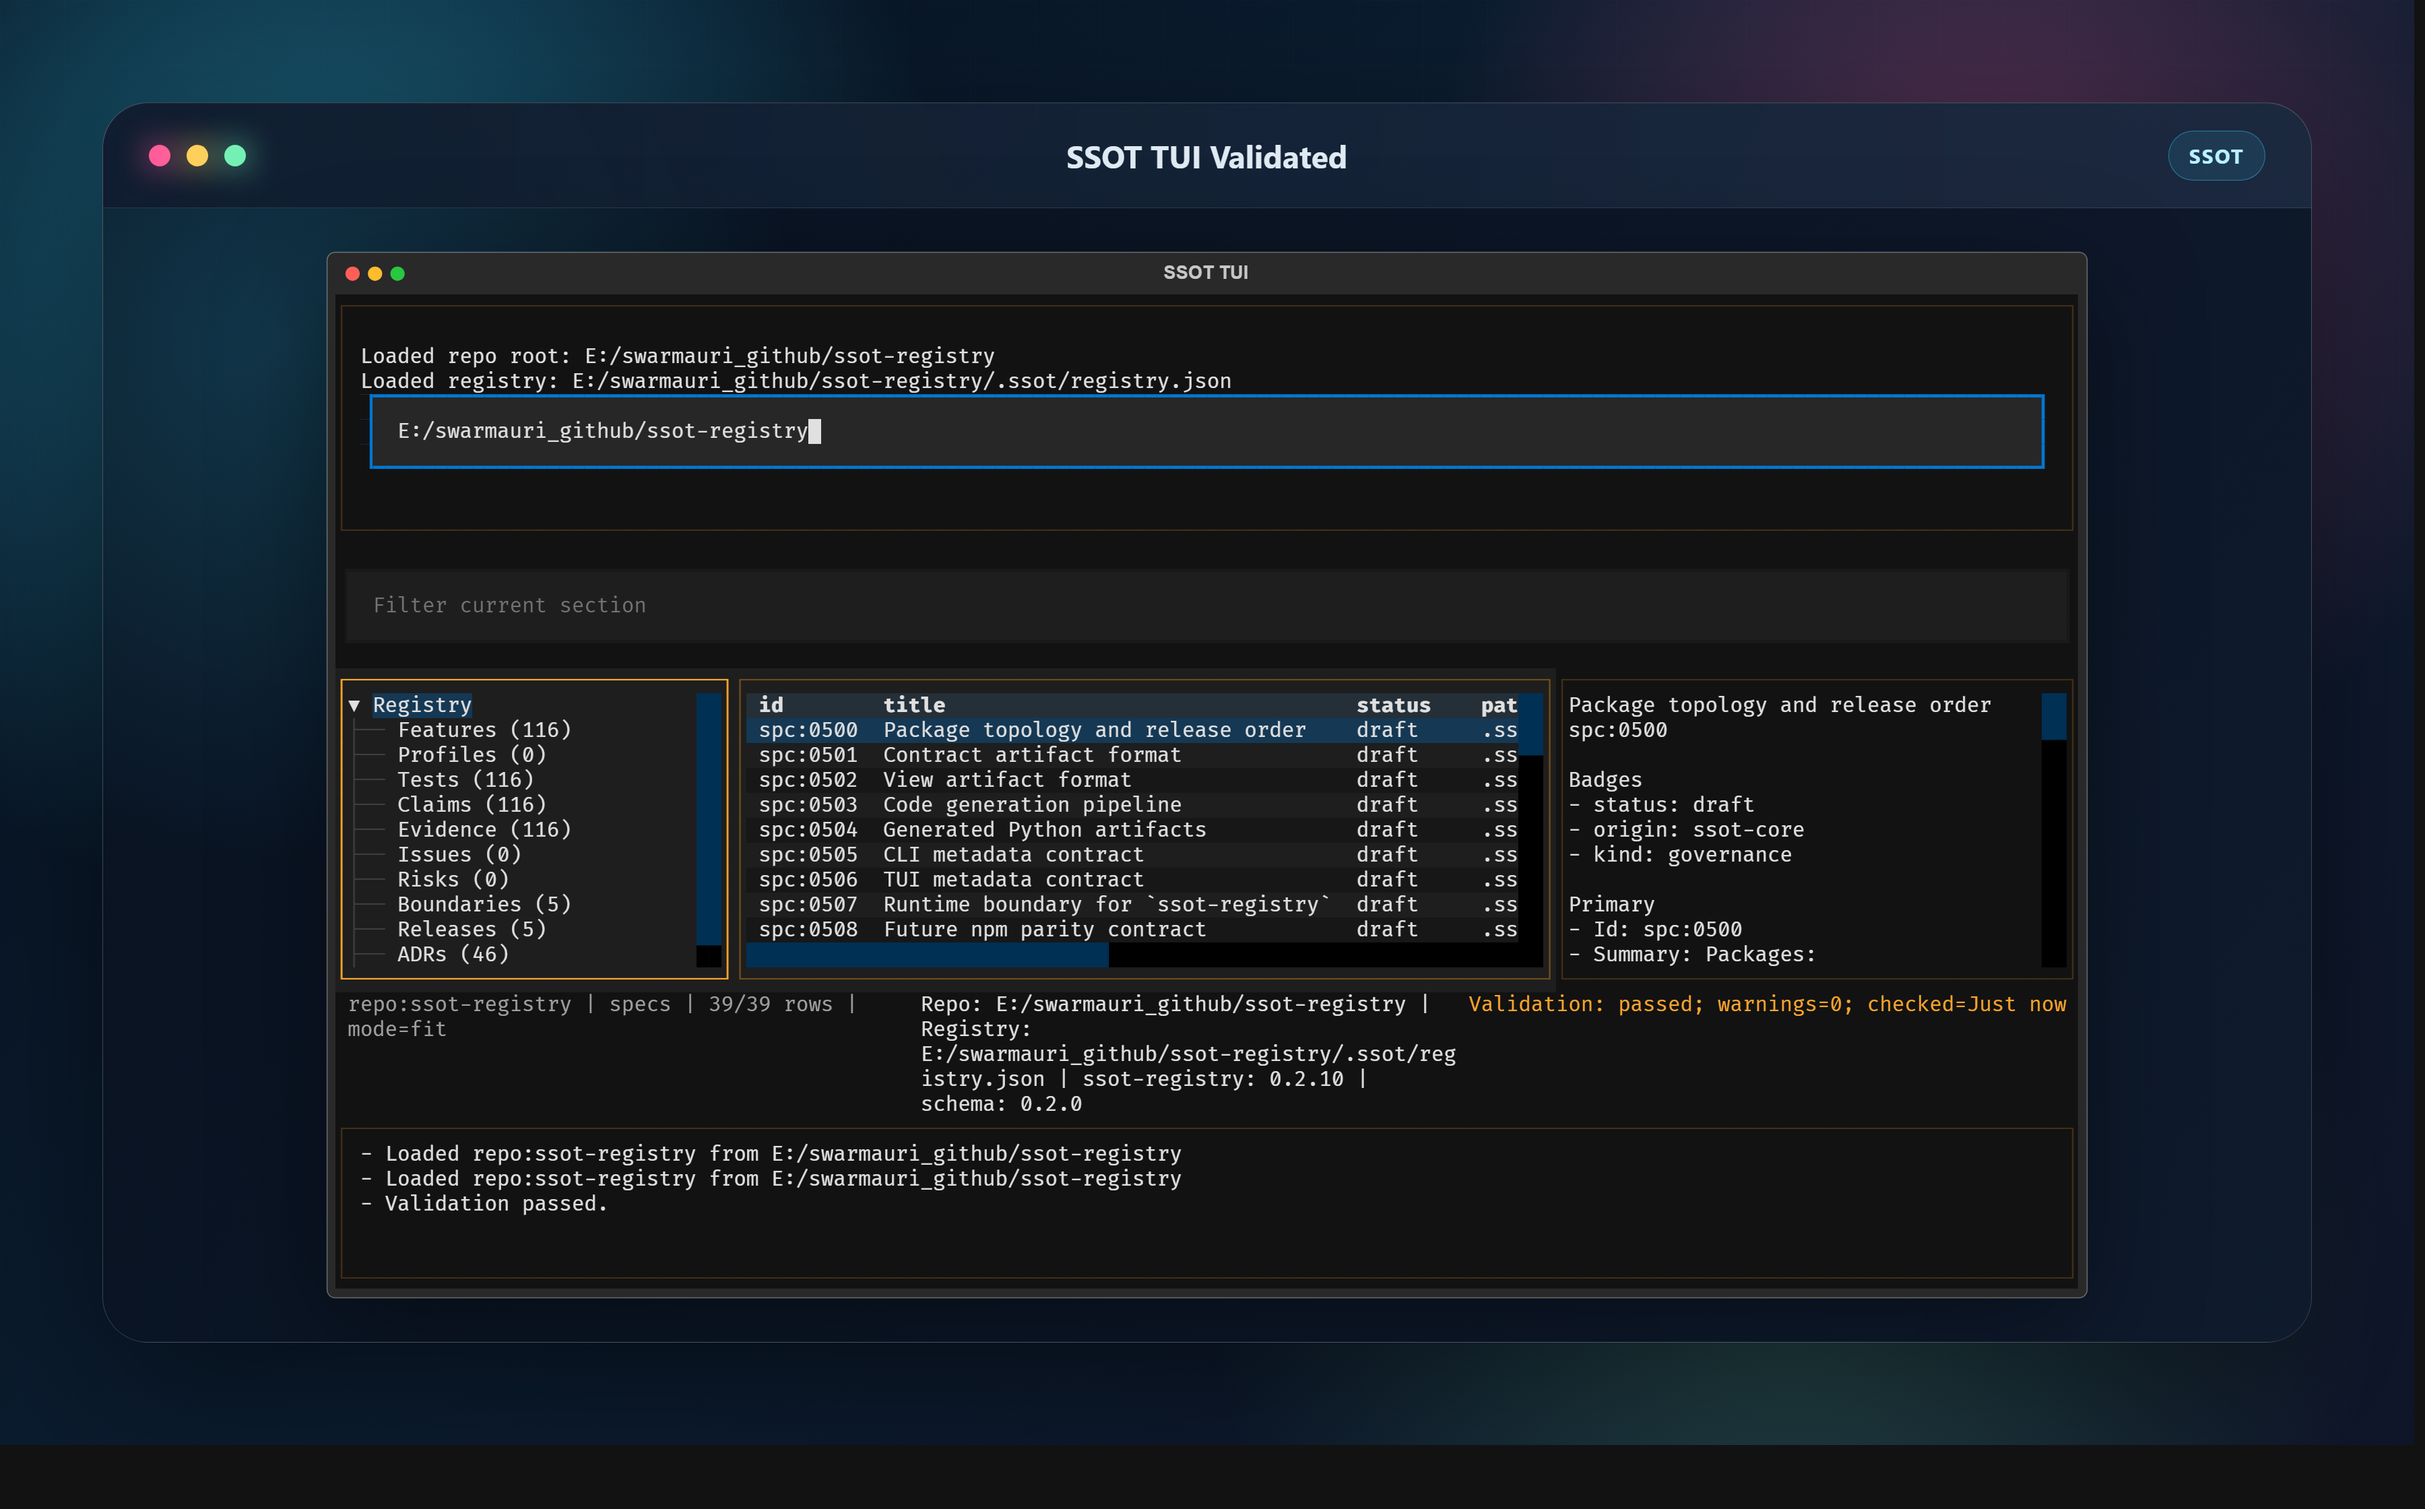
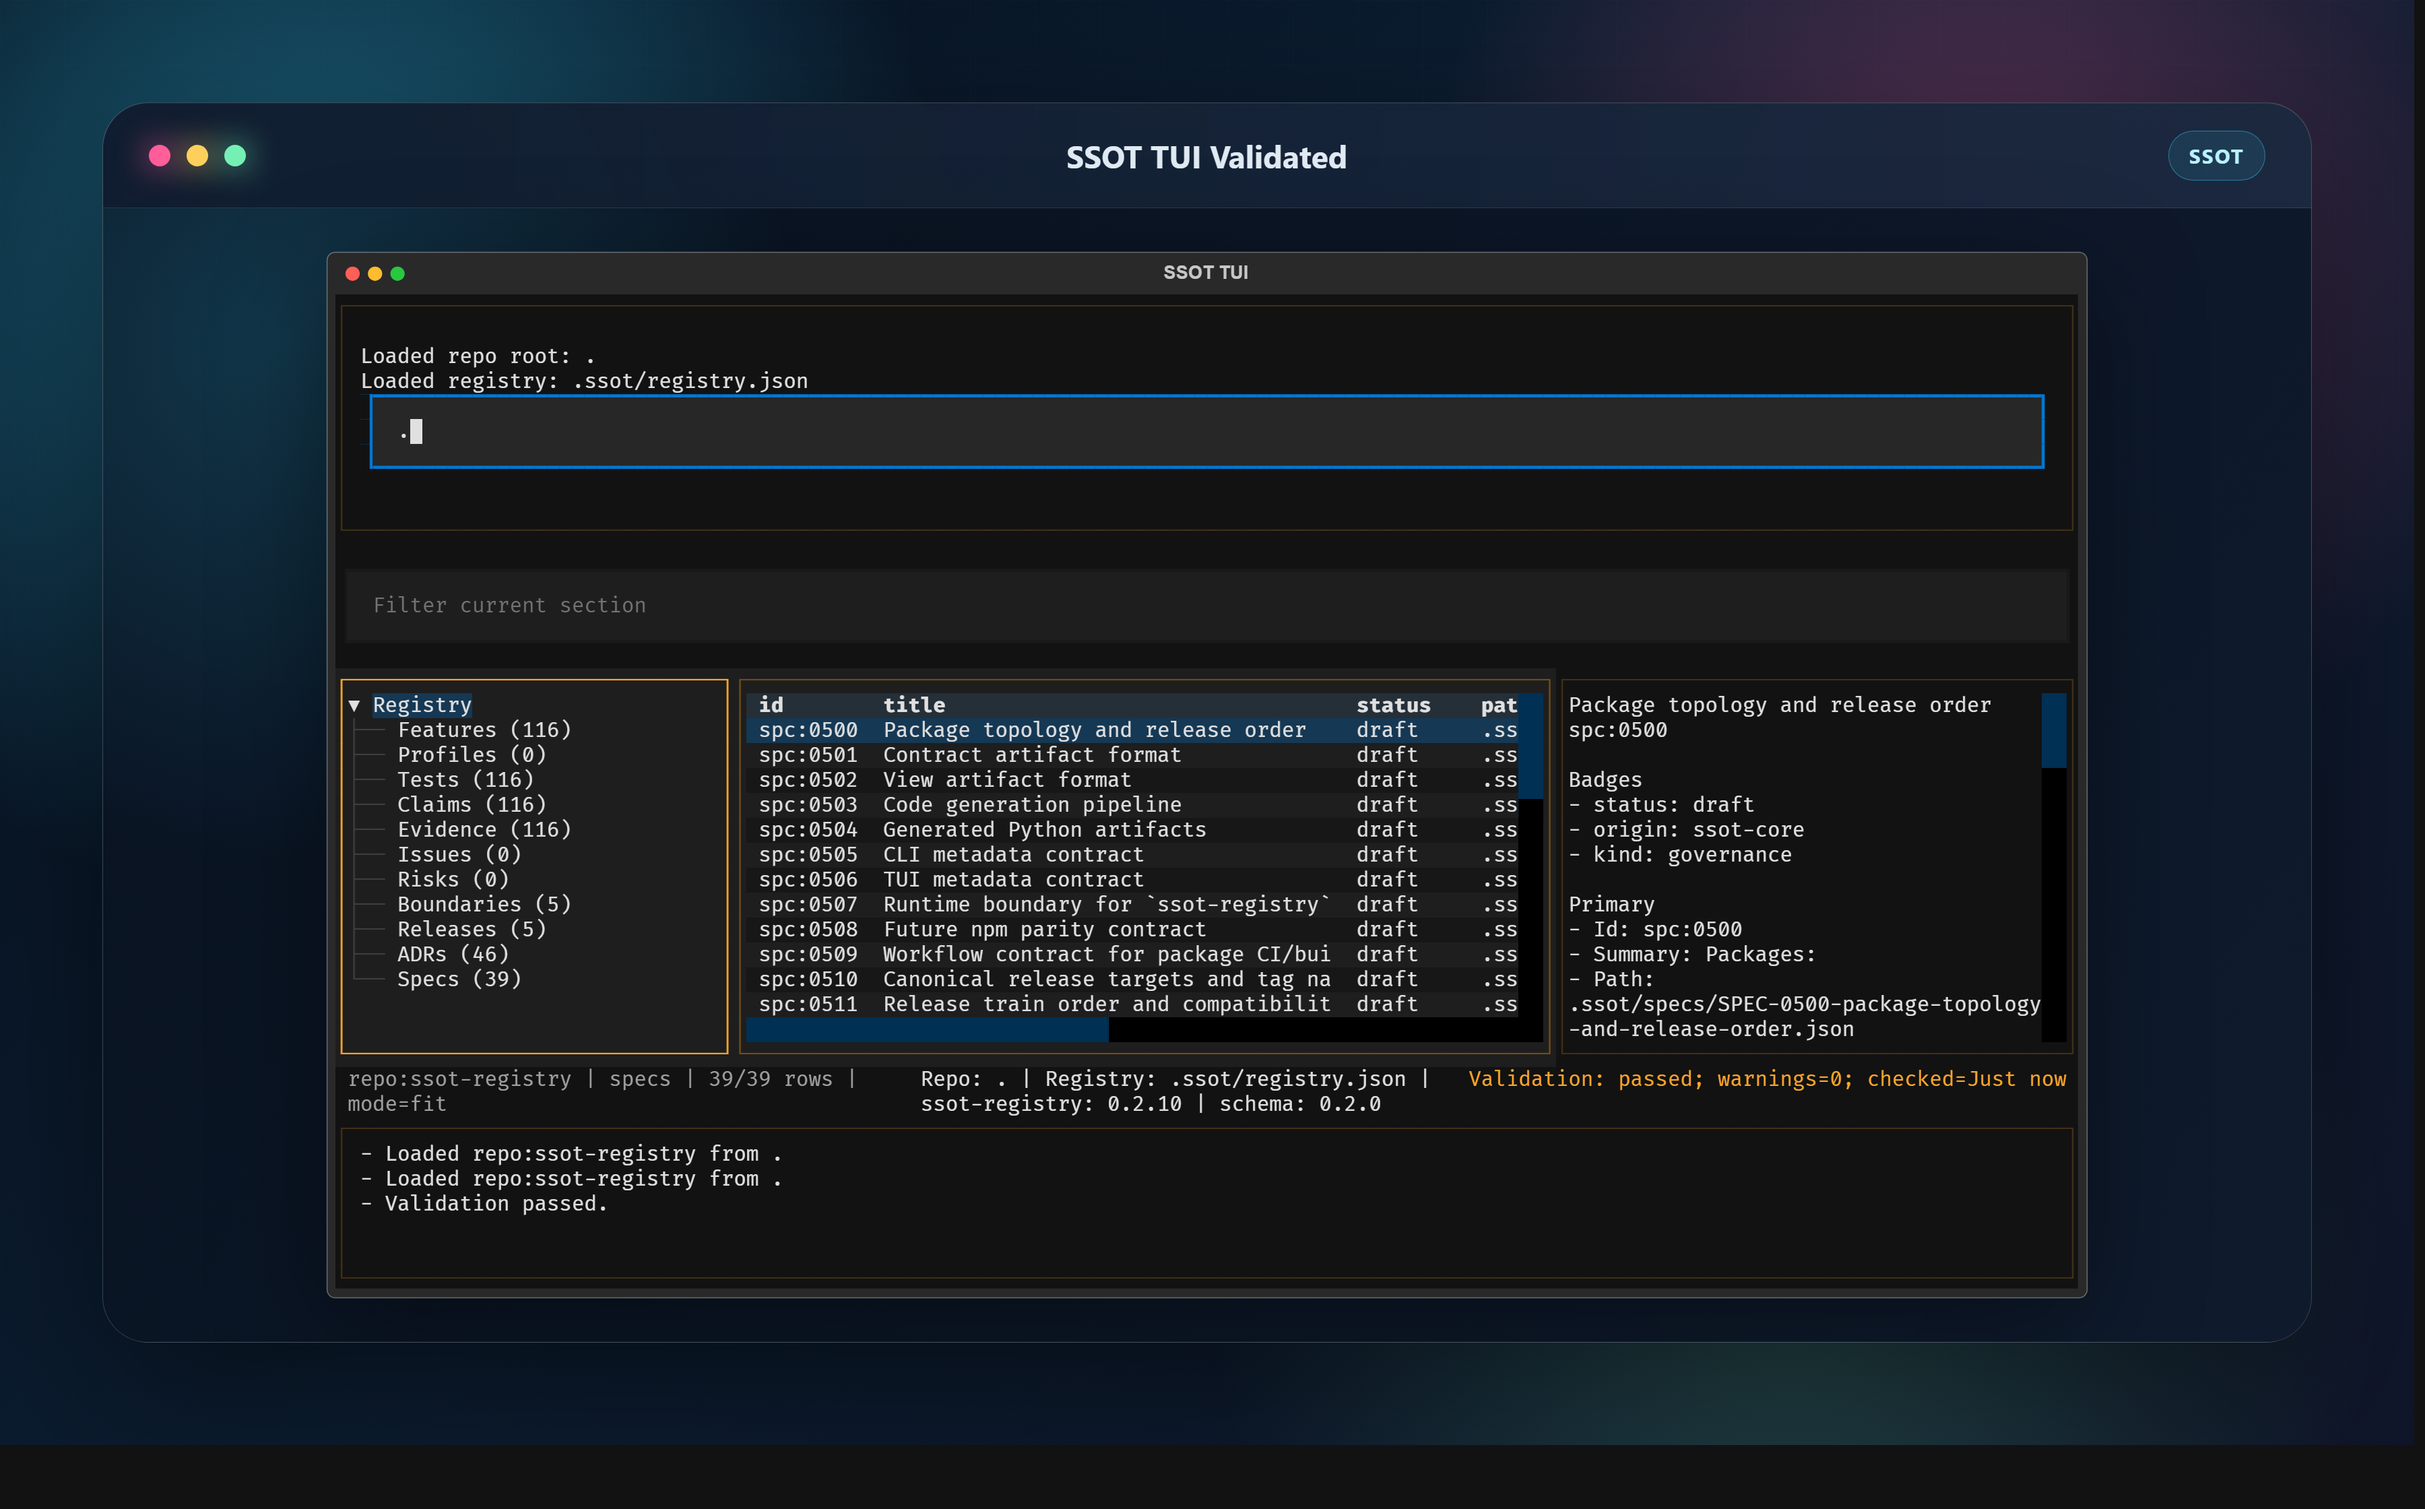
Trim ssot-tui loaded paths in screenshots and browser

diff --git a/tests/unit/test_tui_overhaul.py b/tests/unit/test_tui_overhaul.py
@@ -216,6 +216,16 @@ class TuiOverhaulUnitTests(unittest.TestCase):
         self.assertIn("Generated projections include", rendered)
         self.assertNotIn('"body"', view_model.raw_json)
 
+    @unittest.skipUnless(BrowserScreen is not None, "textual is not installed")
+    def test_browser_loaded_path_display_is_relative_with_root_and_outside_clamped(self) -> None:
+        launch_root = Path(__file__).resolve().parent
+        with patch("ssot_tui.screens.browser.Path.cwd", return_value=launch_root):
+            screen = BrowserScreen()
+        inside = launch_root / "repo" / ".ssot" / "registry.json"
+        self.assertEqual(screen._format_loaded_path_display(inside), "repo/.ssot/registry.json")
+        self.assertEqual(screen._format_loaded_path_display(launch_root), ".")
+        self.assertEqual(screen._format_loaded_path_display(launch_root.parent), ".")
+
 
 @unittest.skipUnless(BrowserScreen is not None, "textual is not installed")
 class TuiOverhaulInteractionTests(unittest.IsolatedAsyncioTestCase):
@@ -439,6 +449,94 @@ class TuiOverhaulInteractionTests(unittest.IsolatedAsyncioTestCase):
                     f"schema: {screen.workspace.registry_schema_version}",
                     rendered,
                 )
+        finally:
+            temp_dir.cleanup()
+
+    async def test_loaded_path_surfaces_render_relative_to_launch_cwd(self) -> None:
+        temp_dir = temp_repo_from_fixture("repo_valid")
+        repo = Path(temp_dir.name) / "repo"
+        session_root = Path(temp_dir.name) / "session"
+        launch_cwd = Path(temp_dir.name)
+
+        with patch("ssot_tui.screens.browser.Path.cwd", return_value=launch_cwd):
+
+            class TestApp(App[None]):
+                def on_mount(self) -> None:
+                    self.push_screen(BrowserScreen(initial_path=repo, session_store=SessionStore(session_root)))
+
+            try:
+                app = TestApp()
+                async with app.run_test() as pilot:
+                    await pilot.pause()
+                    screen = app.screen
+
+                    startup_message = str(screen.query_one("#startup_message").render())
+                    workspace_status = str(screen.query_one("#workspace_status").render())
+                    status_messages = [entry.message for entry in screen.state_store.state.status_history]
+
+                    self.assertIn("Loaded repo root: repo", startup_message)
+                    self.assertIn("Loaded registry: repo/.ssot/registry.json", startup_message)
+                    self.assertIn("Repo: repo", workspace_status)
+                    self.assertIn("Registry: repo/.ssot/registry.json", workspace_status)
+                    self.assertTrue(any(message.endswith("from repo") for message in status_messages))
+            finally:
+                temp_dir.cleanup()
+
+    async def test_loaded_path_surfaces_clamp_outside_launch_cwd_to_dot(self) -> None:
+        temp_dir = temp_repo_from_fixture("repo_valid")
+        repo = Path(temp_dir.name) / "repo"
+        session_root = Path(temp_dir.name) / "session"
+        launch_cwd = repo / "nested" / "cwd"
+        launch_cwd.mkdir(parents=True)
+
+        with patch("ssot_tui.screens.browser.Path.cwd", return_value=launch_cwd):
+
+            class TestApp(App[None]):
+                def on_mount(self) -> None:
+                    self.push_screen(BrowserScreen(initial_path=repo, session_store=SessionStore(session_root)))
+
+            try:
+                app = TestApp()
+                async with app.run_test() as pilot:
+                    await pilot.pause()
+                    screen = app.screen
+
+                    startup_message = str(screen.query_one("#startup_message").render())
+                    workspace_status = str(screen.query_one("#workspace_status").render())
+                    status_messages = [entry.message for entry in screen.state_store.state.status_history]
+
+                    self.assertIn("Loaded repo root: .", startup_message)
+                    self.assertIn("Loaded registry: .", startup_message)
+                    self.assertIn("Repo: .", workspace_status)
+                    self.assertIn("Registry: .", workspace_status)
+                    self.assertTrue(any(message.endswith("from .") for message in status_messages))
+            finally:
+                temp_dir.cleanup()
+
+    async def test_reload_workspace_keeps_user_typed_repo_input(self) -> None:
+        temp_dir = temp_repo_from_fixture("repo_valid")
+        repo = Path(temp_dir.name) / "repo"
+        nested = repo / "nested"
+        nested.mkdir(parents=True)
+        session_root = Path(temp_dir.name) / "session"
+
+        class TestApp(App[None]):
+            def on_mount(self) -> None:
+                self.push_screen(BrowserScreen(session_store=SessionStore(session_root)))
+
+        try:
+            app = TestApp()
+            async with app.run_test() as pilot:
+                await pilot.pause()
+                screen = app.screen
+                repo_input = screen.query_one("#repo_path")
+                repo_input.value = nested.as_posix()
+                screen.action_reload_workspace()
+                await pilot.pause()
+
+                self.assertIsNotNone(screen.workspace)
+                self.assertEqual(repo_input.value, nested.as_posix())
+                self.assertEqual(screen.workspace.root_path, repo.as_posix())
         finally:
             temp_dir.cleanup()
 

diff --git a/pkgs/ssot-tui/src/ssot_tui/screens/browser.py b/pkgs/ssot-tui/src/ssot_tui/screens/browser.py
@@ -60,6 +60,7 @@ class BrowserScreen(Screen[None]):
         self.workspace: RegistryWorkspace | None = None
         self.active_section = session.active_section or ENTITY_SECTIONS[0][0]
         self.initial_path = Path(initial_path) if initial_path is not None else None
+        self._launch_cwd = Path.cwd().resolve()
         self._current_detail_entity_id: str | None = None
         self._detail_view_model = None
         self._last_filtered_count = 0
@@ -102,7 +103,16 @@ class BrowserScreen(Screen[None]):
                 return self.workspace_provider.resolve_startup_repo(self.initial_path)
             except FileNotFoundError:
                 return None
-        return self.session_store.resolve_startup_path(Path.cwd(), self.state_store.state.session)
+        return self.session_store.resolve_startup_path(self._launch_cwd, self.state_store.state.session)
+
+    def _format_loaded_path_display(self, path: str | Path) -> str:
+        candidate = Path(path).expanduser().resolve()
+        try:
+            relative = candidate.relative_to(self._launch_cwd)
+        except ValueError:
+            return "."
+        relative_text = relative.as_posix()
+        return "." if relative_text in {"", "."} else relative_text
 
     def _register_actions(self) -> None:
         register = self.action_registry.register
@@ -327,8 +337,8 @@ class BrowserScreen(Screen[None]):
         self.query_one("#workspace_status", Static).update(
             " | ".join(
                 [
-                    f"Repo: {self.workspace.root_path}",
-                    f"Registry: {self.workspace.registry_path}",
+                    f"Repo: {self._format_loaded_path_display(self.workspace.root_path)}",
+                    f"Registry: {self._format_loaded_path_display(self.workspace.registry_path)}",
                     f"ssot-registry: {self.workspace.registry_version}",
                     f"schema: {self.workspace.registry_schema_version}",
                 ]
@@ -340,7 +350,10 @@ class BrowserScreen(Screen[None]):
             f"Validation: {status}; warnings={validation.warning_count}; checked={validation.last_checked_label}"
         )
         self._set_startup_message(
-            f"Loaded repo root: {self.workspace.root_path}\nLoaded registry: {self.workspace.registry_path}"
+            "Loaded repo root: "
+            f"{self._format_loaded_path_display(self.workspace.root_path)}\n"
+            "Loaded registry: "
+            f"{self._format_loaded_path_display(self.workspace.registry_path)}"
         )
 
     def _persist_session(self, *, emit: bool = True, **changes: object) -> None:
@@ -380,8 +393,11 @@ class BrowserScreen(Screen[None]):
         self.state_store.set_workspace(workspace, validation)
         self.active_section = self.state_store.state.session.active_section or ENTITY_SECTIONS[0][0]
         self._persist_session(last_repo_path=workspace.root_path, active_section=self.active_section)
-        self.query_one("#repo_path", Input).value = workspace.root_path
-        self._push_status(f"Loaded {workspace.repo.get('id', '<unknown repo>')} from {workspace.root_path}")
+        self._push_status(
+            "Loaded "
+            f"{workspace.repo.get('id', '<unknown repo>')} from "
+            f"{self._format_loaded_path_display(workspace.root_path)}"
+        )
 
     def action_validate_workspace(self) -> None:
         if self.workspace is None:

diff --git a/scripts/generate_tui_screenshots.py b/scripts/generate_tui_screenshots.py
@@ -2,6 +2,7 @@ from __future__ import annotations
 
 import argparse
 import asyncio
+import os
 from pathlib import Path
 
 from _screenshot_common import (
@@ -39,17 +40,22 @@ async def capture_tui_screenshots(repo_path: Path, asset_root: Path) -> list[Pat
             raise RuntimeError(f"No rows visible in the {section} table for screenshot generation.")
         save_textual_screenshot_png(app, output_path)
 
-    async with app.run_test(size=(140, 40)) as pilot:
-        input_widget = app.screen.query_one("#repo_path", Input)
-        input_widget.value = str(repo_path)
-        app.screen.action_reload_workspace()
-        await pilot.pause()
-        save_textual_screenshot_png(app, browser_output)
-        await capture_section("adrs", adr_output)
-        await capture_section("specs", spec_output)
-        app.screen.action_validate_workspace()
-        await pilot.pause()
-        save_textual_screenshot_png(app, validated_output)
+    original_cwd = Path.cwd()
+    os.chdir(repo_path)
+    try:
+        async with app.run_test(size=(140, 40)) as pilot:
+            input_widget = app.screen.query_one("#repo_path", Input)
+            input_widget.value = "."
+            app.screen.action_reload_workspace()
+            await pilot.pause()
+            save_textual_screenshot_png(app, browser_output)
+            await capture_section("adrs", adr_output)
+            await capture_section("specs", spec_output)
+            app.screen.action_validate_workspace()
+            await pilot.pause()
+            save_textual_screenshot_png(app, validated_output)
+    finally:
+        os.chdir(original_cwd)
     return [browser_output, adr_output, spec_output, validated_output]
 
 
